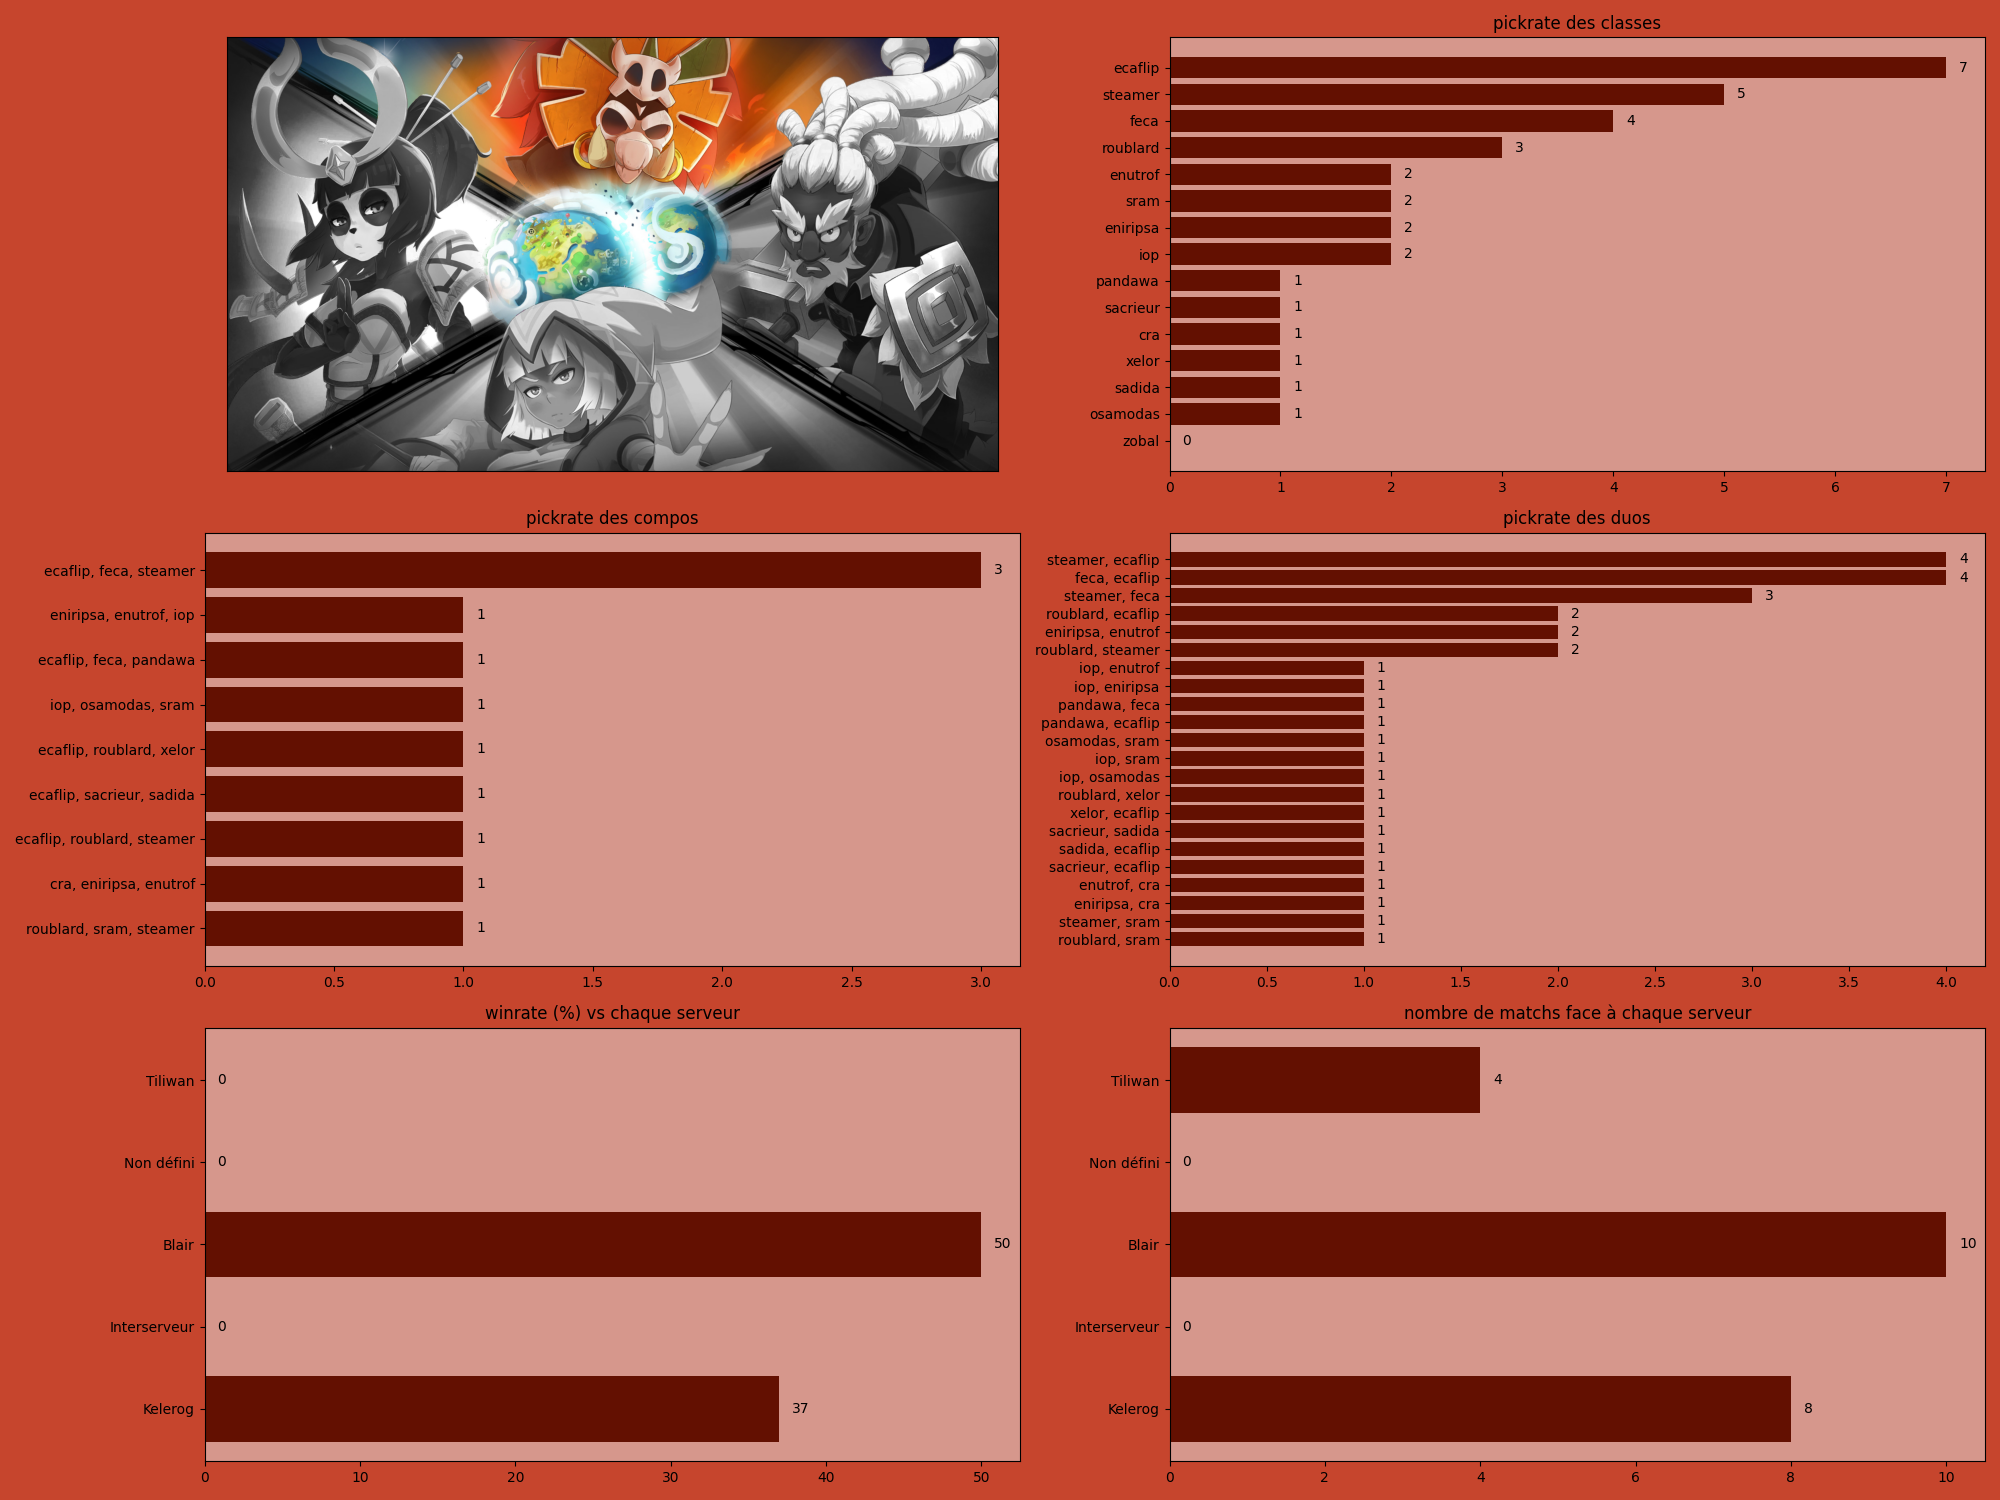
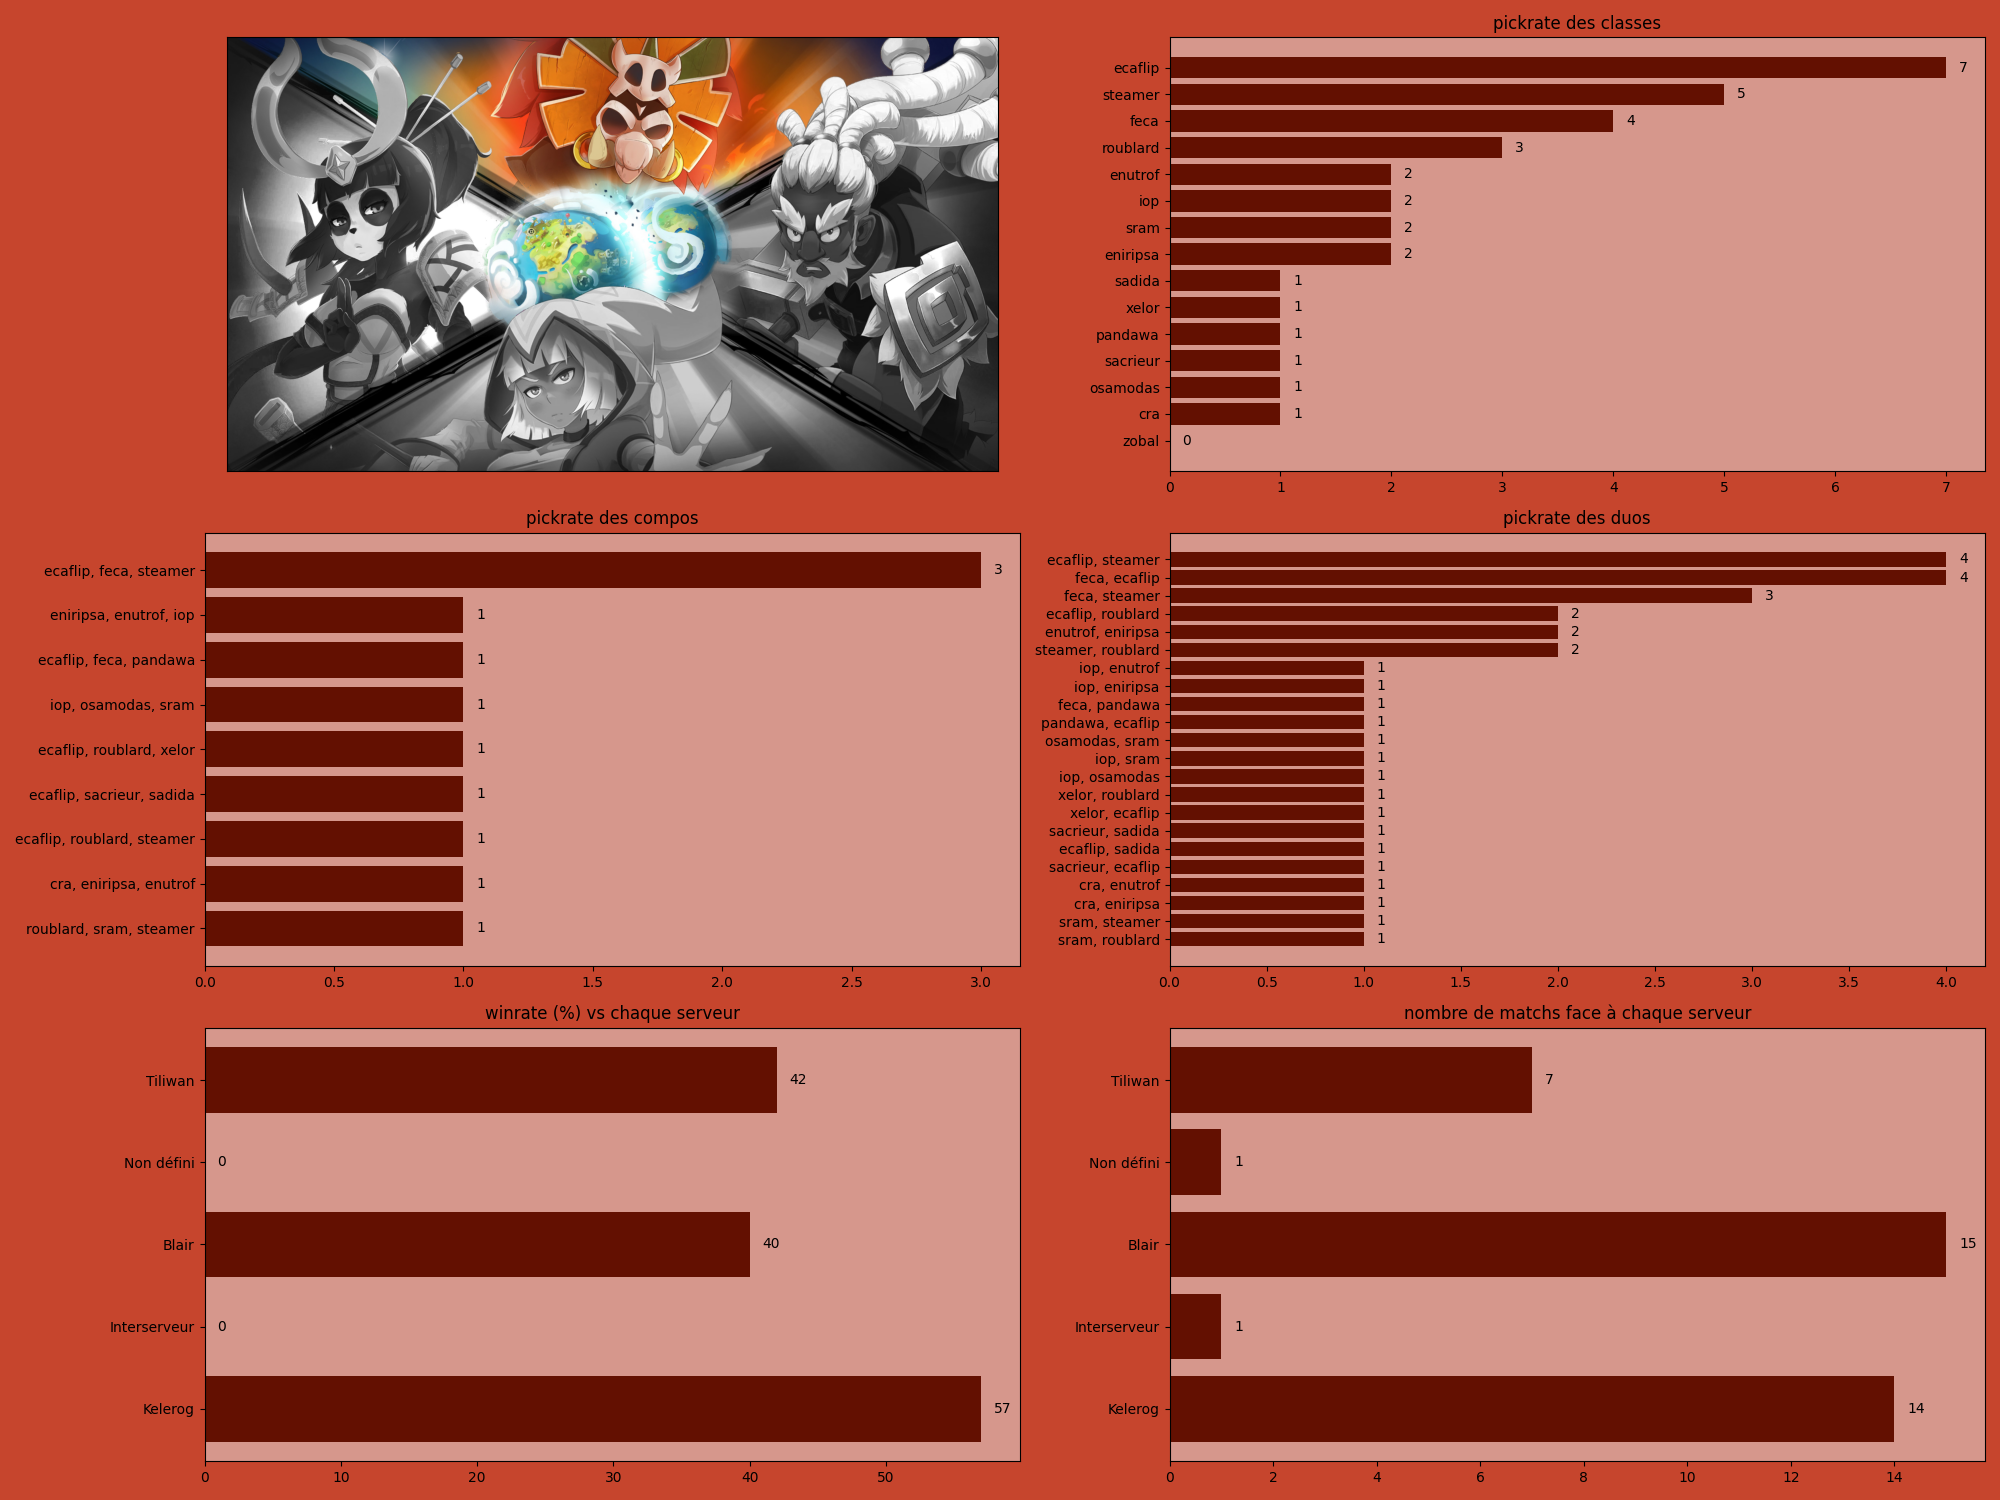
données à jour ronde 4

diff --git a/page_jda4.py b/page_jda4.py
@@ -6,7 +6,7 @@ st.set_page_config(page_title="CalcOfus",page_icon=image_path+"logo_InvRoxx_tab.
 
 st.sidebar.image(image_path+"logo_jda4.png" )
 
-ronde=2
+ronde=4
 st.title(f"Stats après ronde {ronde} JDA#4".upper())
 
 df=[{'C1': 'cra', 'C3': 'ecaflip', 'C2': 'xelor'},
